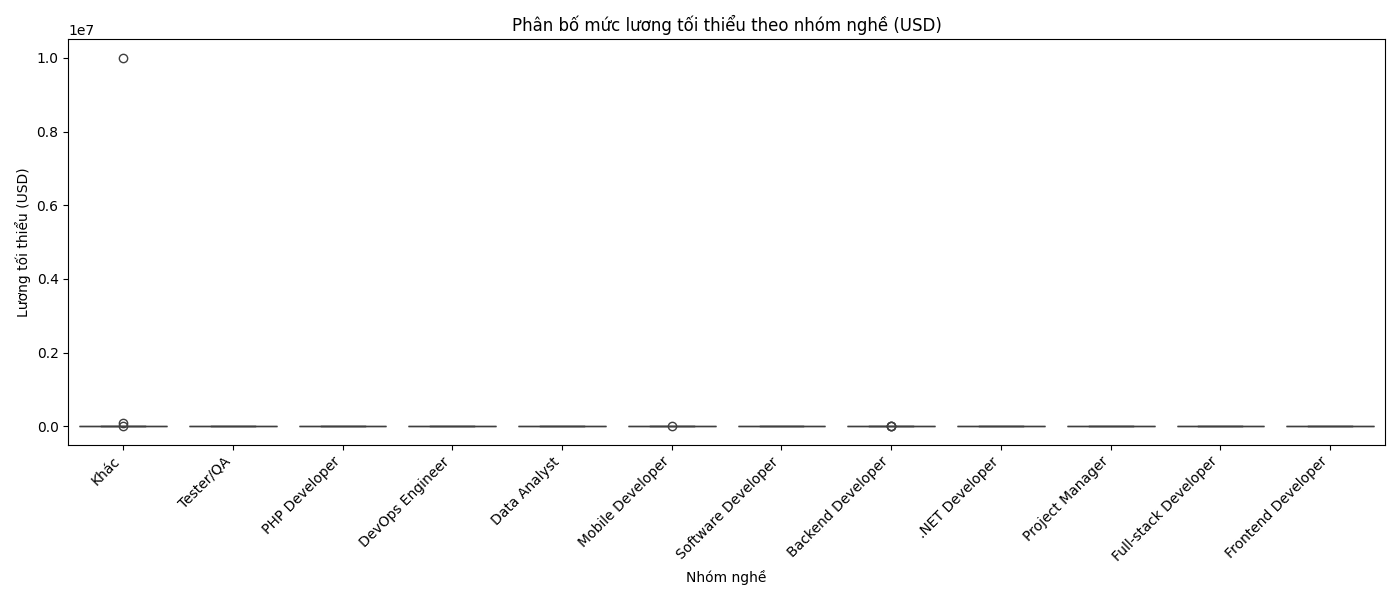
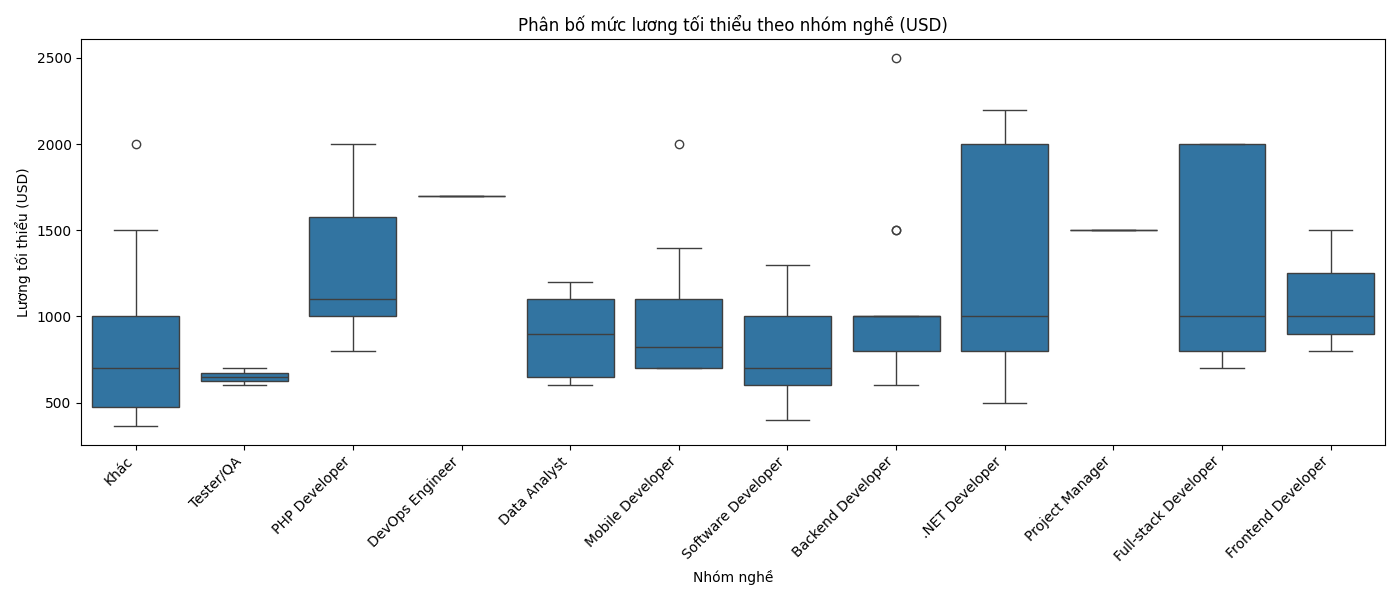
Mo ta ngan gon ban da sua gi

diff --git a/clean.py b/clean.py
@@ -26,6 +26,11 @@ def deal_salary(text):
     if not numbers:
         return None, None, unit
 
+    if unit == "USD" and max(numbers) > 10000:
+        unit = "VND"
+    if unit == "VND" and max(numbers) > 1000:
+        return None, None, unit
+
     # Case: có "tới"/"up to"/"đến" -> chỉ có max
     if "tới" in text_lower or "up to" in text_lower or "đến" in text_lower:
         return None, numbers[0], unit
@@ -135,4 +140,3 @@ if __name__ == "__main__":
 
     df.to_csv("data_clean.csv", index=False, encoding="utf-8-sig")
     print("Saved to data_clean.csv")
-
